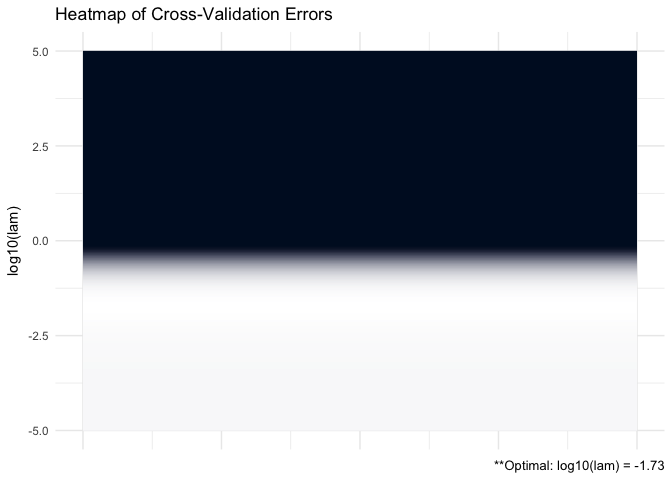
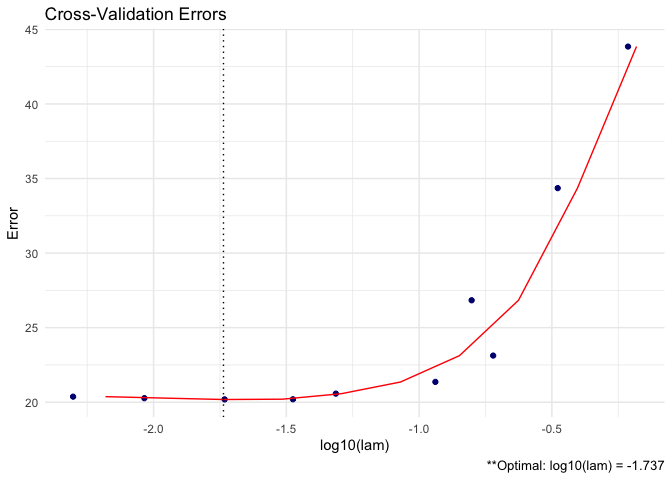
misc update

diff --git a/src/CV.cpp b/src/CV.cpp
@@ -179,7 +179,7 @@ List CV_GLASSOc(const arma::mat &X, const arma::mat &S, const arma::colvec &lam,
         CV_error[i] += numzeros(Omega);
       }
       if (crit_cv == "BIC"){
-        CV_error[i] += numzeros(Omega)*log(n)/2;
+        CV_error[i] += numzeros(Omega)*std::log(n)/2;
       }
       
       // save estimate if path = TRUE

diff --git a/src/CVP.cpp b/src/CVP.cpp
@@ -91,7 +91,7 @@ arma::mat CVP_GLASSOc(const int n, const arma::mat &S_train, const arma::mat &S_
       CV_error[i] += numzeros(Omega);
     }
     if (crit_cv == "BIC"){
-      CV_error[i] += numzeros(Omega)*log(n)/2;
+      CV_error[i] += numzeros(Omega)*std::log(n)/2;
     }
     
     // update progress bar

diff --git a/README.md b/README.md
@@ -71,11 +71,11 @@ Sample = (nrow(X) - 1)/nrow(X)*cov(X)
 ```
 
     ##          [,1]     [,2]     [,3]     [,4]     [,5]
-    ## [1,]  1.98365 -1.54113 -0.03896 -0.04392  0.11939
-    ## [2,] -1.54113  3.13590 -1.14656  0.07428 -0.27851
-    ## [3,] -0.03896 -1.14656  2.44800 -1.08953  0.00029
-    ## [4,] -0.04392  0.07428 -1.08953  2.40163 -1.10604
-    ## [5,]  0.11939 -0.27851  0.00029 -1.10604  1.87394
+    ## [1,]  1.77452 -1.52421  0.00896  0.25383  0.01418
+    ## [2,] -1.52421  3.46629 -1.41101 -0.08099 -0.31840
+    ## [3,]  0.00896 -1.41101  2.79597 -1.11710  0.17526
+    ## [4,]  0.25383 -0.08099 -1.11710  2.77327 -1.75156
+    ## [5,]  0.01418 -0.31840  0.17526 -1.75156  2.73721
 
 ``` r
 # GLASSO (lam = 0.5)
@@ -92,44 +92,44 @@ GLASSO(S = Sample, lam = 0.5)
     ##       log10(lam)  lam
     ## [1,]      -0.301  0.5
     ## 
-    ## Log-likelihood: -11.94762
+    ## Log-likelihood: -10.89827
     ## 
     ## Omega:
     ##          [,1]     [,2]     [,3]     [,4]     [,5]
-    ## [1,]  0.99244 -0.23296  0.00000  0.00000  0.00000
-    ## [2,] -0.23296  1.16354 -0.14944  0.00000  0.00000
-    ## [3,]  0.00000 -0.14944  1.04543 -0.15200  0.00000
-    ## [4,]  0.00000  0.00000 -0.15200  1.05441 -0.13787
-    ## [5,]  0.00000  0.00000  0.00000 -0.13787  1.08982
+    ## [1,]  0.93879 -0.17857  0.00000  0.00000  0.00000
+    ## [2,] -0.17857  1.23551 -0.07325  0.00000  0.00000
+    ## [3,]  0.00000 -0.07325  1.22391 -0.04095  0.00000
+    ## [4,]  0.00000  0.00000 -0.04095  1.06546 -0.16866
+    ## [5,]  0.00000  0.00000  0.00000 -0.16866  1.32332
 
 ``` r
 # GLASSO cross validation
-GLASSO(X, lam = 10^seq(-5, 5, 0.5))
+GLASSO(X)
 ```
 
     ## 
-    ## Call: GLASSO(X = X, lam = 10^seq(-5, 5, 0.5))
+    ## Call: GLASSO(X = X)
     ## 
     ## Iterations:
-    ## [1] 7
+    ## [1] 3
     ## 
     ## Tuning parameter:
     ##       log10(lam)    lam
-    ## [1,]        -1.5  0.032
+    ## [1,]      -1.737  0.018
     ## 
-    ## Log-likelihood: -137.19636
+    ## Log-likelihood: -108.65963
     ## 
     ## Omega:
     ##          [,1]     [,2]     [,3]     [,4]     [,5]
-    ## [1,]  1.82323 -1.31666 -0.06110  0.00000  0.00000
-    ## [2,] -1.31666  2.76907 -0.99074  0.00000 -0.15513
-    ## [3,] -0.06110 -0.99074  2.22827 -0.94831 -0.03176
-    ## [4,]  0.00000  0.00000 -0.94831  2.19159 -0.97400
-    ## [5,]  0.00000 -0.15513 -0.03176 -0.97400  1.75654
+    ## [1,]  1.67594 -1.35403  0.00000  0.16188  0.00000
+    ## [2,] -1.35403  3.15010 -1.27590 -0.08024 -0.20431
+    ## [3,]  0.00000 -1.27590  2.63011 -0.93647  0.00000
+    ## [4,]  0.16188 -0.08024 -0.93647  2.51894 -1.55285
+    ## [5,]  0.00000 -0.20431  0.00000 -1.55285  2.58649
 
 ``` r
 # produce CV heat map for GLASSO
-GLASSO = GLASSO(X, lam = 10^seq(-5, 5, 0.01))
+GLASSO = GLASSO(X)
 GLASSO %>% plot
 ```
 
@@ -137,7 +137,7 @@ GLASSO %>% plot
 
 ``` r
 # produce line graph for CV errors for GLASSO
-GLASSO %>% plot(type = "line")
+GLASSO %>% plot(type = "heatmap")
 ```
 
 ![](README_files/figure-markdown_github/unnamed-chunk-2-2.png)
